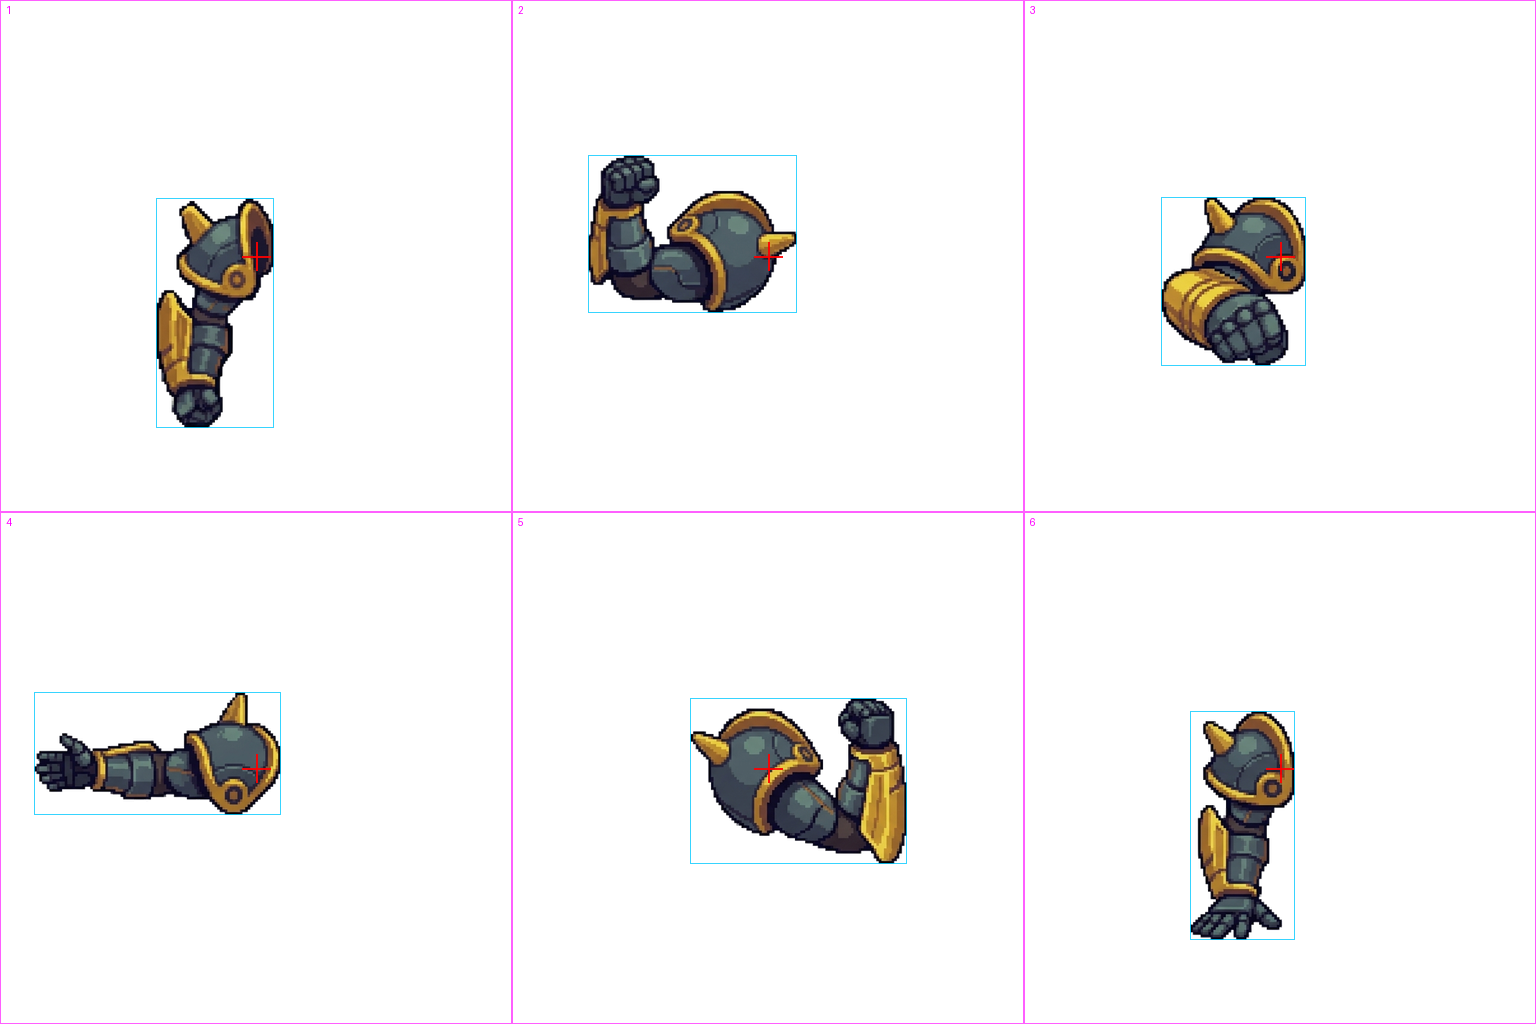
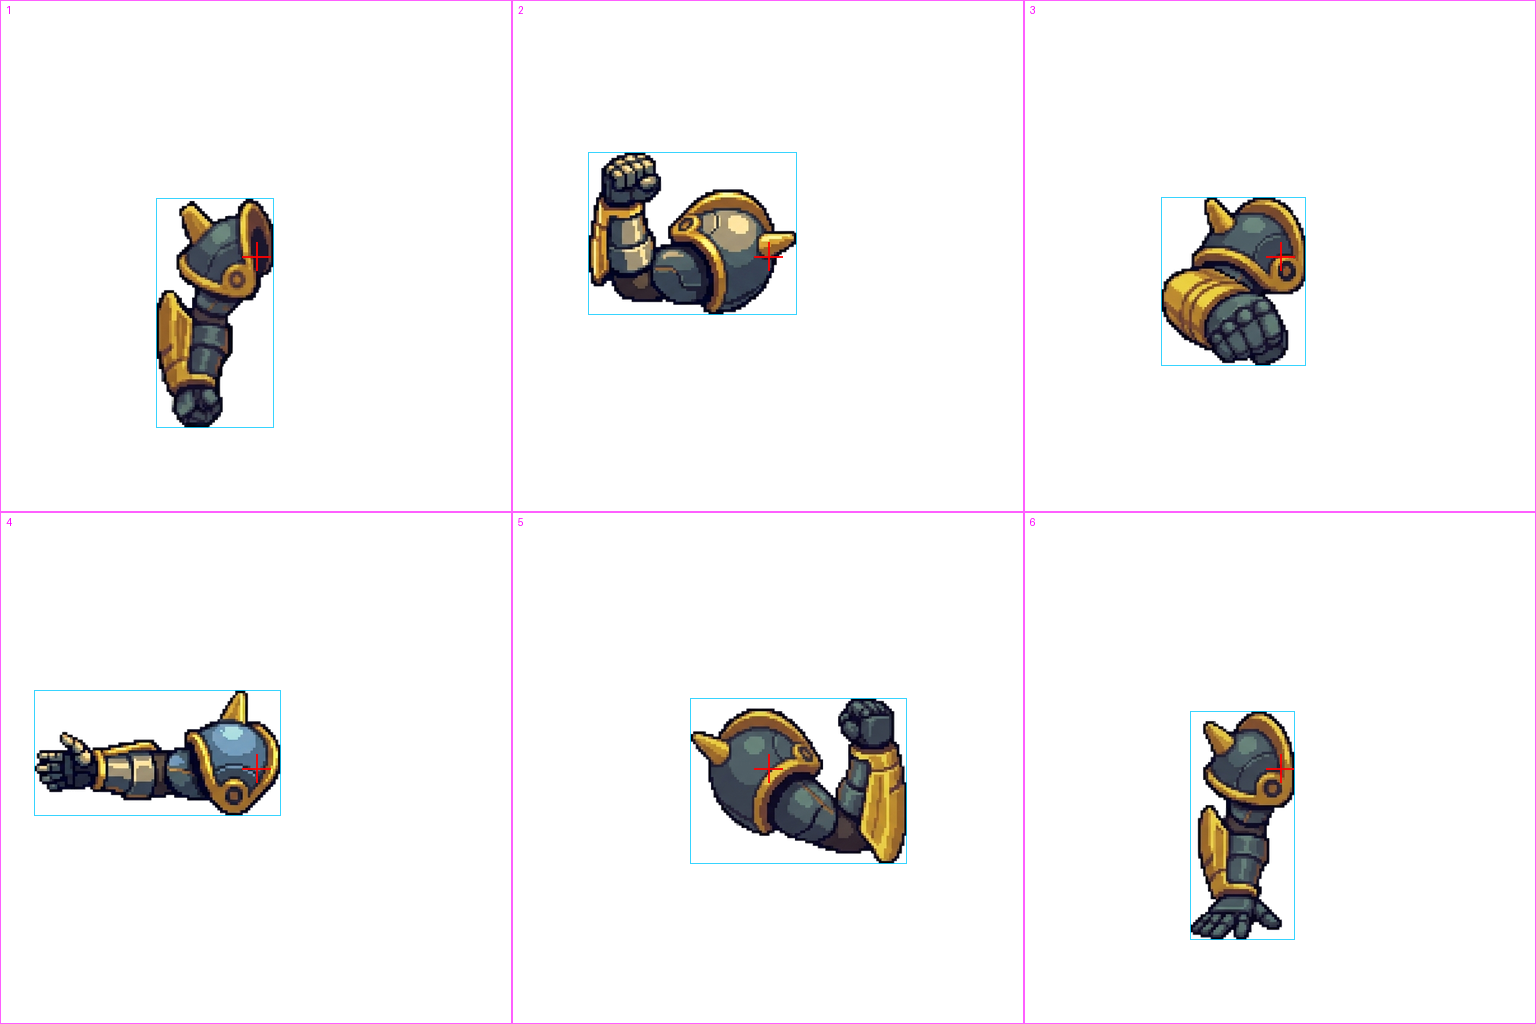
art(m11): core_warden arms_L Zellen 2+4

Changed region(s): [[0.375, 0.125, 0.5312, 0.3125], [0.0312, 0.6562, 0.1875, 0.8125]]

diff --git a/HANDOFF.md b/HANDOFF.md
@@ -33,12 +33,12 @@ npm run verify                           # Build + Invarianten + Sprite-Check + 
 - **Typ L/S v2 (`ART_BRIEF_M11.md`, `1536×1024`, `512×512`/Zelle, Gelenk/Kern exakt im Fadenkreuz, alle per `npm run art:check` ohne Rand-Warnungen geprüft):**
   - **§4.2 Kern-Wächter — komplett (4/4 neue Sheets fertig):**
     - `art_source/rigs/core_warden_arms_R.png` (rechter Arm `x=0.93`, 6 Posen, `min_margin ≥ 31 px`)
-    - `art_source/rigs/core_warden_arms_L.png` (linker Arm `x=0.07`, 6 Posen, `min_margin ≥ 34 px`; Hinweis: Zellen 1, 3, 5, 6 neu mit Licht links-oben gezeichnet, Zellen 2 & 4 aus dem Sheet gespiegelt, da Bild-Quota erreicht — bei Bedarf nach Cooldown neu zeichbar)
+    - `art_source/rigs/core_warden_arms_L.png` (linker Arm `x=0.07`, 6 Posen, `min_margin ≥ 34 px`; **S1 erledigt**: Zellen 2 & 4 eigenständig mit Licht links-oben neu schattiert und re-importiert)
     - `art_source/rigs/core_warden_heads.png` (6 Helm+Halo-Varianten, Halsgelenk im Fadenkreuz, `min_margin ≥ 32 px`)
     - `art_source/rigs/core_warden_torsos.png` (6 Rumpf-Varianten inkl. Phase-2-Kern offen & überhitzt, Reaktorkern im Fadenkreuz, `min_margin ≥ 43 px`)
   - **§4.1 Krall (1/6 fertig):**
     - `art_source/rigs/krall_arms_R.png` (rechter Greifzangen-Arm `x=0.96`, 6 Posen, Schulterring im Fadenkreuz, `min_margin ≥ 31 px`)
-- **Noch offen (§4.1 Krall, 5 Sheets — pausiert wegen temporärem `gemini-3.1-flash-image`-Quota-Limit, ~3h 38m Cooldown):**
+- **Noch offen (§4.1 Krall, 5 Sheets):**
   - `krall_arms_L.png`, `krall_legs_R.png`, `krall_legs_L.png`, `krall_torsos.png`, `krall_effects.png`
 
 ## M11 Pose-Sets — Code (umgesetzt) · Handbuch: [`RIGGING_GUIDE.md`](RIGGING_GUIDE.md)
@@ -63,7 +63,7 @@ Nach und nach erzeugen, sobald Gemini-Volumen frei ist (Reihenfolge §5 im Brief
 - Code-Seite (Claude Code, sobald der Pilot da ist): Import-Modus `parts`, Rigs in `rigs.json`, `anim/enemyAnims.ts`.
 
 ## Nächster Schritt
-- **Boss-Animation (Stand):** `BOSS_ANIMATION_PLAN.md` §2.2 K1–K8 umgesetzt (K5 verworfen, K6 als Variante) — Kern-Wächter wartet auf **Abnahme im echten Kampf** (§2.4). Offen: Sprite-Aufgaben S1–S5 (Antigravity, zuerst S1 = `core_warden_arms_L` Zellen 2 & 4 neu zeichnen), danach Übertragung auf die anderen Bosse (§3).
+- **Boss-Animation (Stand):** `BOSS_ANIMATION_PLAN.md` §2.2 K1–K8 + S1 umgesetzt — Kern-Wächter wartet auf **Abnahme im echten Kampf** (§2.4). Offen: S3 → S4 → S2 → S5 (Antigravity), danach Übertragung auf die anderen Bosse (§3).
 - **Antigravity (Quota-Reset):** restliche 5 Krall-Sheets: `krall_arms_L.png` (Schrott-Haken + Mini-Säge), `krall_legs_R.png`, `krall_legs_L.png`, `krall_torsos.png`, `krall_effects.png` → `npm run art:check` → pushen. Danach Claude Code: Sets in `rigs.json` eintragen (linker Arm = neues Teil `clawL`, Beine/Rumpf-Sets) und Posen in `bossAnims.ts` verdrahten.
 - **Claude Code (ohne neue Sprites):** Teilen von Quarz-Koloss/Sternen-Archon (`MILESTONE_11_ARCHITECTURE.md` §4.3), prozedurale Bewegung der übrigen Bosse, Krall-Verdrahtung vorbereiten, Kern-Glühen des Kern-Wächters an die neue Kernposition anpassen (Schulter-Offsets sind justiert: `SHOULDER_ADJUST`), danach Plan-Phase 3 (Angriffe der Sektor-1-Bosse mit Teil-Abwurf/Splitting, `MILESTONE_11_ARCHITECTURE.md`).
 - Ökonomie & Boss-Kampfgefühl im echten Spiel beobachten und in `src/data/balance.ts` nachjustieren (Berichte: `tests/out/economy.json`, `tests/out/ttk.json`).

diff --git a/BOSS_ANIMATION_PLAN.md b/BOSS_ANIMATION_PLAN.md
@@ -83,7 +83,7 @@ Reihenfolge = Priorität. Alle Änderungen rein darstellend (D8).
 ### 2.3 Sprite-Aufgaben — für Antigravity (Gemini)
 Format & Regeln wie `ART_BRIEF_M11.md` §2 (512×512-Zellen, Gelenk in Zellmitte, gleicher Maßstab wie die vorhandenen `core_warden_*`-Sheets, Referenzbilder: `public/art/sprites/boss.png` + das jeweils vorhandene Sheet). Prüfen mit `npm run art:check`.
 
-- [ ] **S1 · `core_warden_arms_L.png` Zellen 2 & 4 neu zeichnen** (sind derzeit nur gespiegelt, Licht kommt dort falsch von rechts). Nur diese zwei Zellen ersetzen, Rest unverändert lassen. *Kein Code nötig* (`npm run art:import -- core_warden --force`).
+- [x] **S1 · `core_warden_arms_L.png` Zellen 2 & 4 neu zeichnen** ✅ erledigt (eigenständig mit Licht von links-oben neu schattiert, Gelenk im Fadenkreuz, `art:check` + `art:import -- core_warden --force` + `npm run verify` + Kontaktbogen `rig_core_warden.png` geprüft).
 - [ ] **S2 · Zwischen-Posen Arme (Typ L)** `core_warden_arms_R2.png` und `core_warden_arms_L2.png`, 3×2:
   1 halb ausgeholt (zwischen hängend und Faust hoch) · 2 Schlag kurz vor dem Treffer (zwischen Ausholen und Schlag zur Kamera) · 3 nach dem Schlag zurückfedernd · 4 Laser-Pose mit Handfläche leuchtend (Ladung) · 5 Block mit Riss/Funken (Treffer im Block) · 6 Arm hängend **beschädigt** (Phase 2, Panzer abgeplatzt).
   Code danach: Sets in `rigs.json` an die Varianten anhängen (`armR_7…12`), Zuordnung in `coreWardenSet` (Zwischen-Posen für ~0,08 s zwischen den Hauptposen → ersetzt die Kreuzblende).
